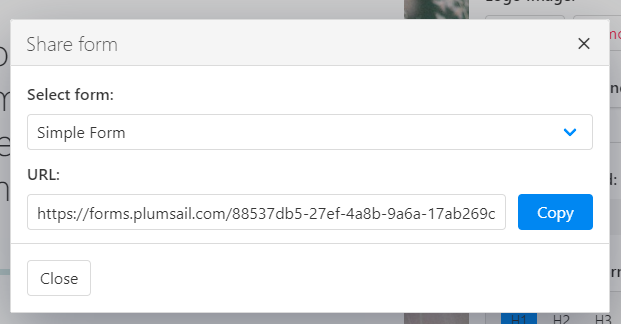
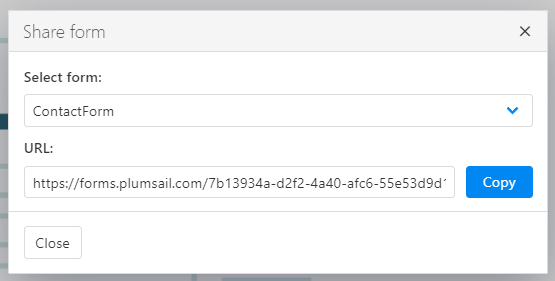
Update to Sharing pages

Changed region(s): [[0.0, 0.0, 1.0, 1.0], [0.0613, 0.8256, 0.1225, 0.8826]]

diff --git a/Public/sharing.rst b/Public/sharing.rst
@@ -1,123 +1,10 @@
-Sharing Public Forms
+Sharing forms
 ==================================================
 
 .. contents:: Contents:
  :local:
  :depth: 1
 
-Sharing Pages
--------------------------------------------------------------
-Sharing pages allow you to share forms directly with users - via the URL. You can send this URL in an email, or add it to any link on your site.
-
-To create a sharing page, please, go to your Plumsail Account -> Forms -> Pages section and click **Add page**:
-
-|pic1|
-
-.. |pic1| image:: /images/start/sharing-add-page.png
-   :alt: Add page for sharing
-
-Once you click it, you'll be greeted with the following screen:
-
-|pic2|
-
-.. |pic2| image:: /images/start/sharing-new-page.png
-   :alt: New page creation
-
-Here, you can configure sharing page to your liking and change its appearance to match your company's or personal style.
-
-If you select **Make default** for this page, all the future pages you create will start with matching style:
-
-|pic3|
-
-.. |pic3| image:: /images/start/sharing-make-default.png
-   :alt: Make default
-
-**Title** field is mandatory and its required to identify each sharing page that you have:
-
-|pic4|
-
-.. |pic4| image:: /images/start/sharing-title-required.png
-   :alt: Title required
-
-You can also change the logo and add a link to it, so when users click on the logo, it redirects them to your site:
-
-|pic5|
-
-.. |pic5| image:: /images/start/sharing-logo-change.png
-   :alt: Change logo
-
-Adjust header where the logo is placed by switching header color or the pattern, where you can choose from many options:
-
-|pic6|
-
-.. |pic6| image:: /images/start/sharing-header-settings.png
-   :alt: Header settings
-
-Choose body background - either a solid color or an image:
-
-|pic7|
-
-.. |pic7| image:: /images/start/sharing-body-background.png
-   :alt: Body background
-
-You can upload your own image or select one of existing in image gallery:
-
-|pic8|
-
-.. |pic8| image:: /images/start/sharing-background-gallery.png
-   :alt: Background image gallery
-
-Customize the text that appears above the form:
-
-|pic9|
-
-.. |pic9| image:: /images/start/sharing-text-above.png
-   :alt: Text above
-
-Finally, you can also adjust footer's background color, text color and what text will appear in the footer:
-
-|pic10|
-
-.. |pic10| image:: /images/start/sharing-footer-adjustments.png
-   :alt: Footer adjustments
-
-With all that done, save the page:
-
-|pic11|
-
-.. |pic11| image:: /images/start/sharing-save-page.png
-   :alt: Save page
-
-After saving you'll get some extra options. For once, you'll be able to Save as or Delete the page:
-
-|pic12|
-
-.. |pic12| image:: /images/start/sharing-save-delete.png
-   :alt: Save or delete
-
-You'll also finally get an option to share the page:
-
-|pic13|
-
-.. |pic13| image:: /images/start/sharing-share-quit.png
-   :alt: Share or quit
-   
-When you click Share, you'll be able to choose which form to share and copy the URL for sharing:
-
-|pic14|
-
-.. |pic14| image:: /images/start/sharing-select-form.png
-   :alt: Select form for sharing and copy its URL
-
-And here's the page that I've created in just a couple of minutes with a simple form:
-
-|pic15|
-
-.. |pic15| image:: /images/start/sharing-page-result.png
-   :alt: Final page
-
-Now, to actually work with the received data, please, check out our :doc:`Collecting data from submissions </submissions>` article, or read about handling data in :doc:`Microsoft Flow </microsoft-flow>` or :doc:`Zapier </zapier>`.
-   
 Publishing form
 -------------------------------------------------------------
 Alternatively, you can publish Public Web Form to any webpage on your own site or anywhere else on the web, where you can edit the HTML and add our widget.
@@ -172,5 +59,65 @@ For more examples, please, check our |Integration section| with Wordpress, Jooml
 .. |Integration section| raw:: html
 
    <a href="https://plumsail.com/forms/integration/" target="_blank">Integration section</a>
+
+Now, to actually work with the received data, please, check out our :doc:`Collecting data from submissions </submissions>` article, or read about handling data in :doc:`Microsoft Flow </microsoft-flow>` or :doc:`Zapier </zapier>`.
+
+Sharing pages
+-------------------------------------------------------------
+Sharing pages allow you to share forms directly with users - via the URL. You can send this URL in an email, or add it to any link on your site.
+
+To create a sharing page, please, go to your Plumsail Account -> Forms -> Pages section and click **Add page**:
+
+|pic1|
+
+.. |pic1| image:: /images/start/sharing-add-page.png
+   :alt: Add page for sharing
+
+Once you click it, you'll be greeted with the following screen:
+
+|pic2|
+
+.. |pic2| image:: /images/start/sharing-new-page.png
+   :alt: New page creation
+
+Here, you can configure sharing page to your liking and change its appearance to match your company's or personal style.
+
+If you select **Make default** for this page, all the future pages you create will start with matching style.
+
+**Title** field is mandatory and its required to identify each sharing page that you have. You can also change the **Logo** and add a link to it, so when users click on the logo, it redirects them to your site. Adjust **Header** where the logo is placed by switching header color or the pattern, where you can choose from many options. Choose **Body background** - either a solid color or an image.
+
+You can upload your own image or select one of existing in image gallery:
+
+|pic8|
+
+.. |pic8| image:: /images/start/sharing-background-gallery.png
+   :alt: Background image gallery
+
+Customize the text that appears above the form.
+
+Finally, you can also adjust **Footer**'s background color, text color and what text will appear in the footer.
+
+With all that done, save the page.
+
+After saving you'll get some extra options. For once, you'll be able to **Save as** or **Delete** the page. You'll also finally get an option to **Share** the page:
+
+|pic13|
+
+.. |pic13| image:: /images/start/sharing-share-quit.png
+   :alt: Share or quit
+   
+When you click **Share**, you'll be able to choose which form to share and copy the URL for sharing:
+
+|pic14|
+
+.. |pic14| image:: /images/start/sharing-select-form.png
+   :alt: Select form for sharing and copy its URL
+
+And here's the page that I've created in just a couple of minutes with a simple form:
+
+|pic15|
+
+.. |pic15| image:: /images/start/sharing-page-result.png
+   :alt: Final page
 
 Once again, to work with the received data, please, check out our :doc:`Collecting data from submissions </submissions>` article, or read about handling data in :doc:`Microsoft Flow </microsoft-flow>` or :doc:`Zapier </zapier>`.

diff --git a/Public/design.rst b/Public/design.rst
@@ -1,4 +1,4 @@
-Designing and publishing forms
+Designing forms
 ====================================
 
 .. contents:: Contents:
@@ -59,4 +59,4 @@ You are always be able to open, edit or delete your saved forms in the upper rig
 .. |pic5| image:: ./images/start/saved-form.png
    :alt: Saved Public Form
 
-To share saved forms, please, go to our :doc:`Sharing Public forms </sharing>` article.
+To share saved forms, please, go to our :doc:`Sharing forms </sharing>` article.
